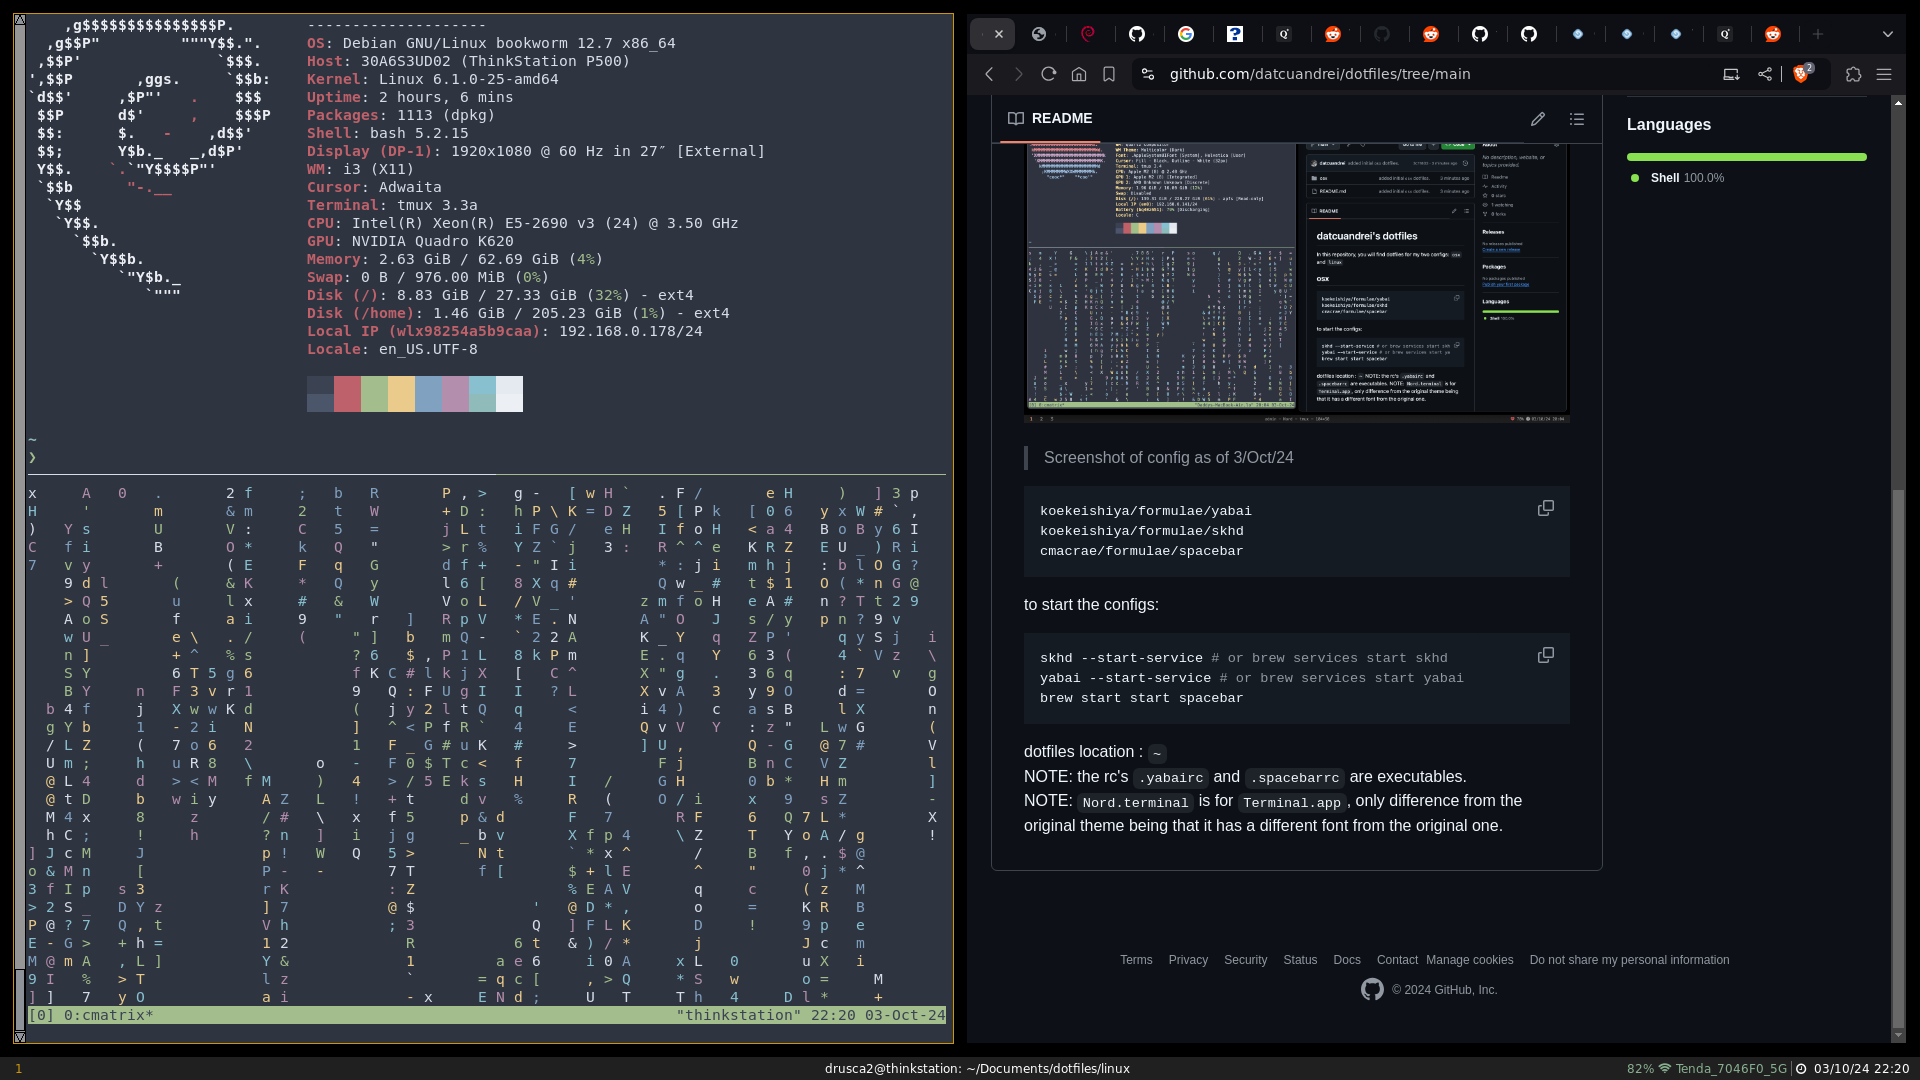
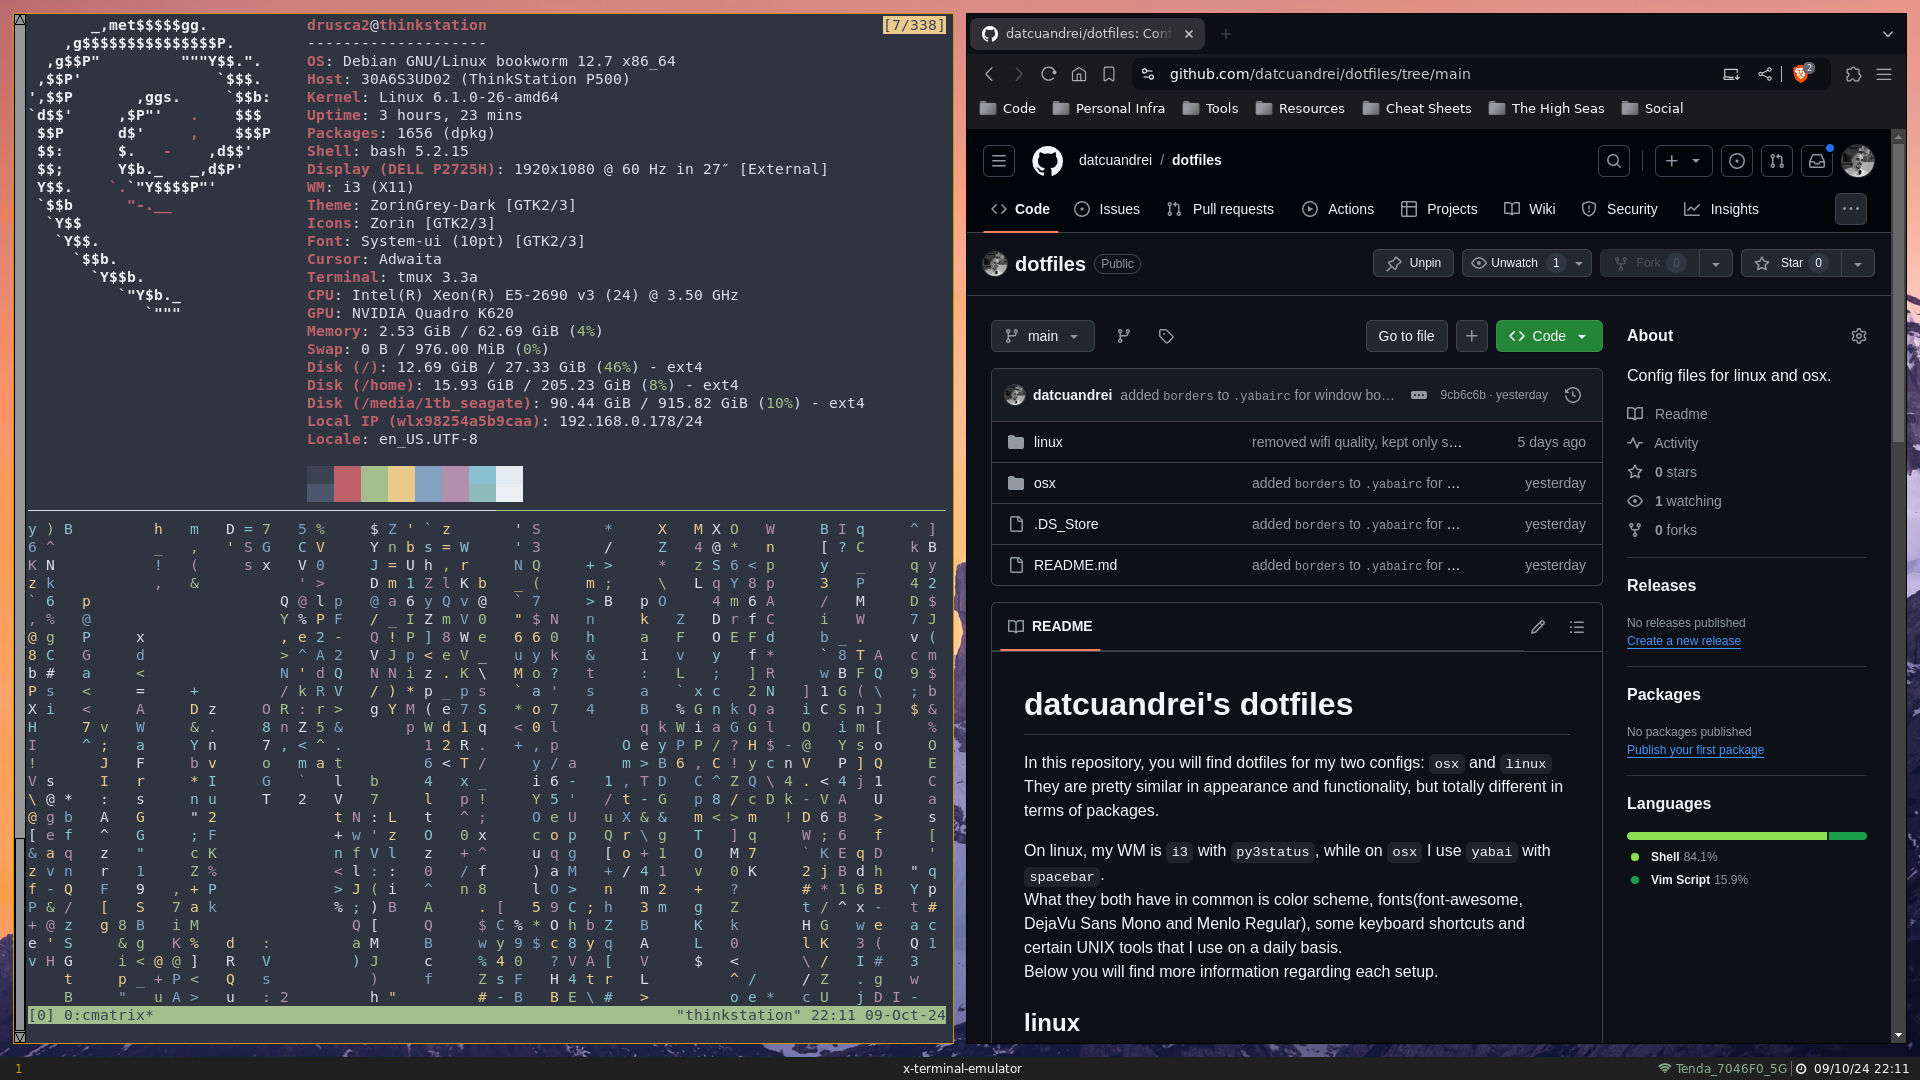
new `dmenu` color scheme and Zorin `GTK` theme.

diff --git a/README.md b/README.md
@@ -9,8 +9,8 @@ On linux, my WM is `i3` with `py3status`, while on `osx` I use `yabai` with `spa
 
 linux
 ---
-![Screenshot of config as of 3/Oct/24](linux/linux.png)
-> Screenshot of config as of 3/Oct/24
+![Screenshot of config as of 10/Oct/24](linux/linux.png)
+> Screenshot of config as of 10/Oct/24
 ```apt
 i3
 i3lock
@@ -24,7 +24,7 @@ xterm
 ```
 
 dotfiles location : `~` 
-<br>NOTE: for `i3` and `picom.conf`, they belong in `~/.config/`.
+<br>NOTE: `i3`, `gtk-3.0` and `picom.conf` belong in `~/.config/`.
 
 
 osx
